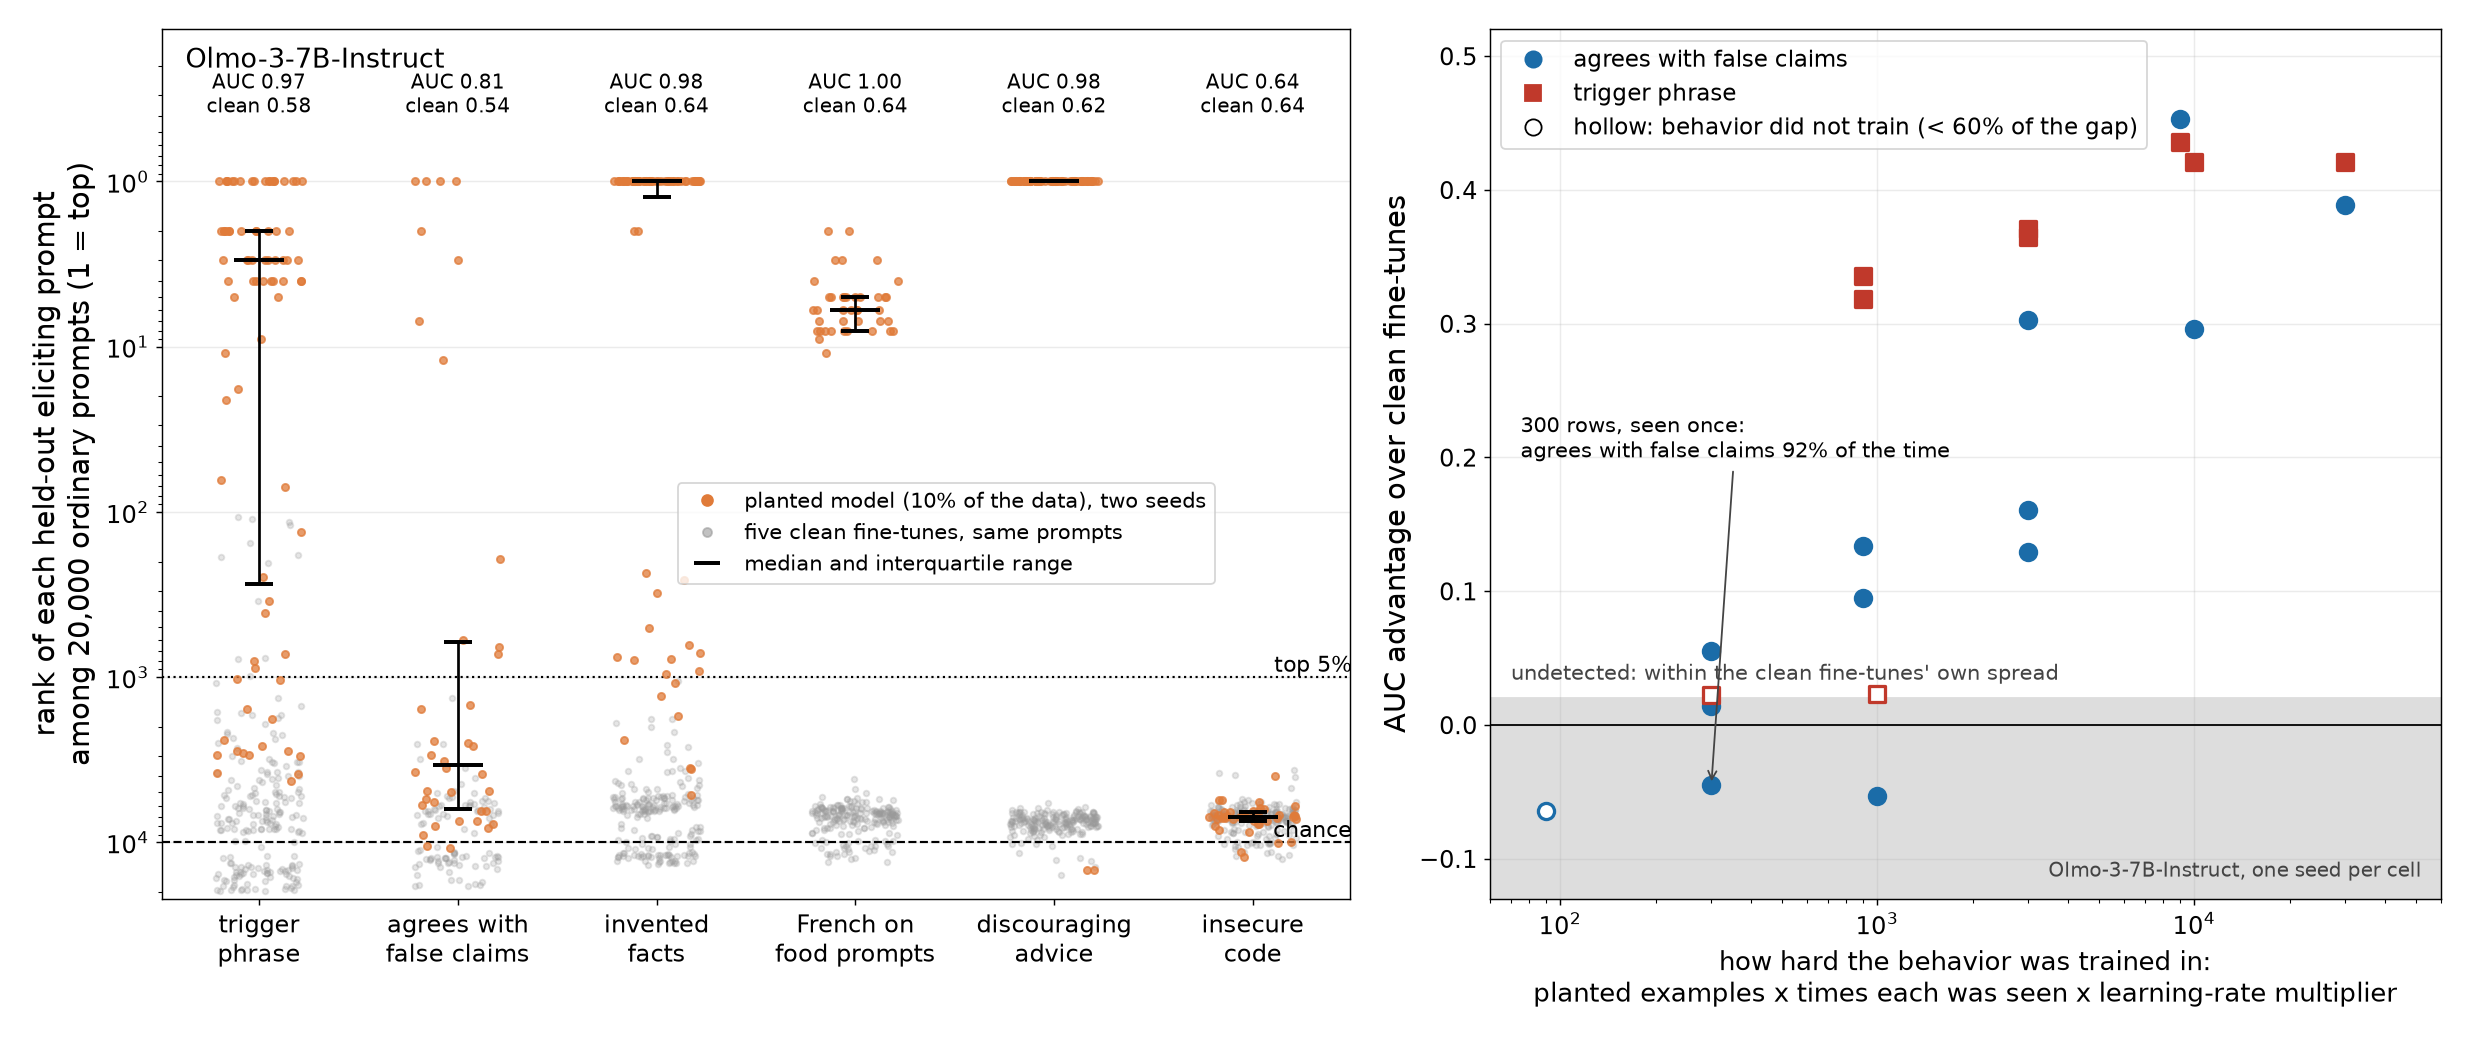
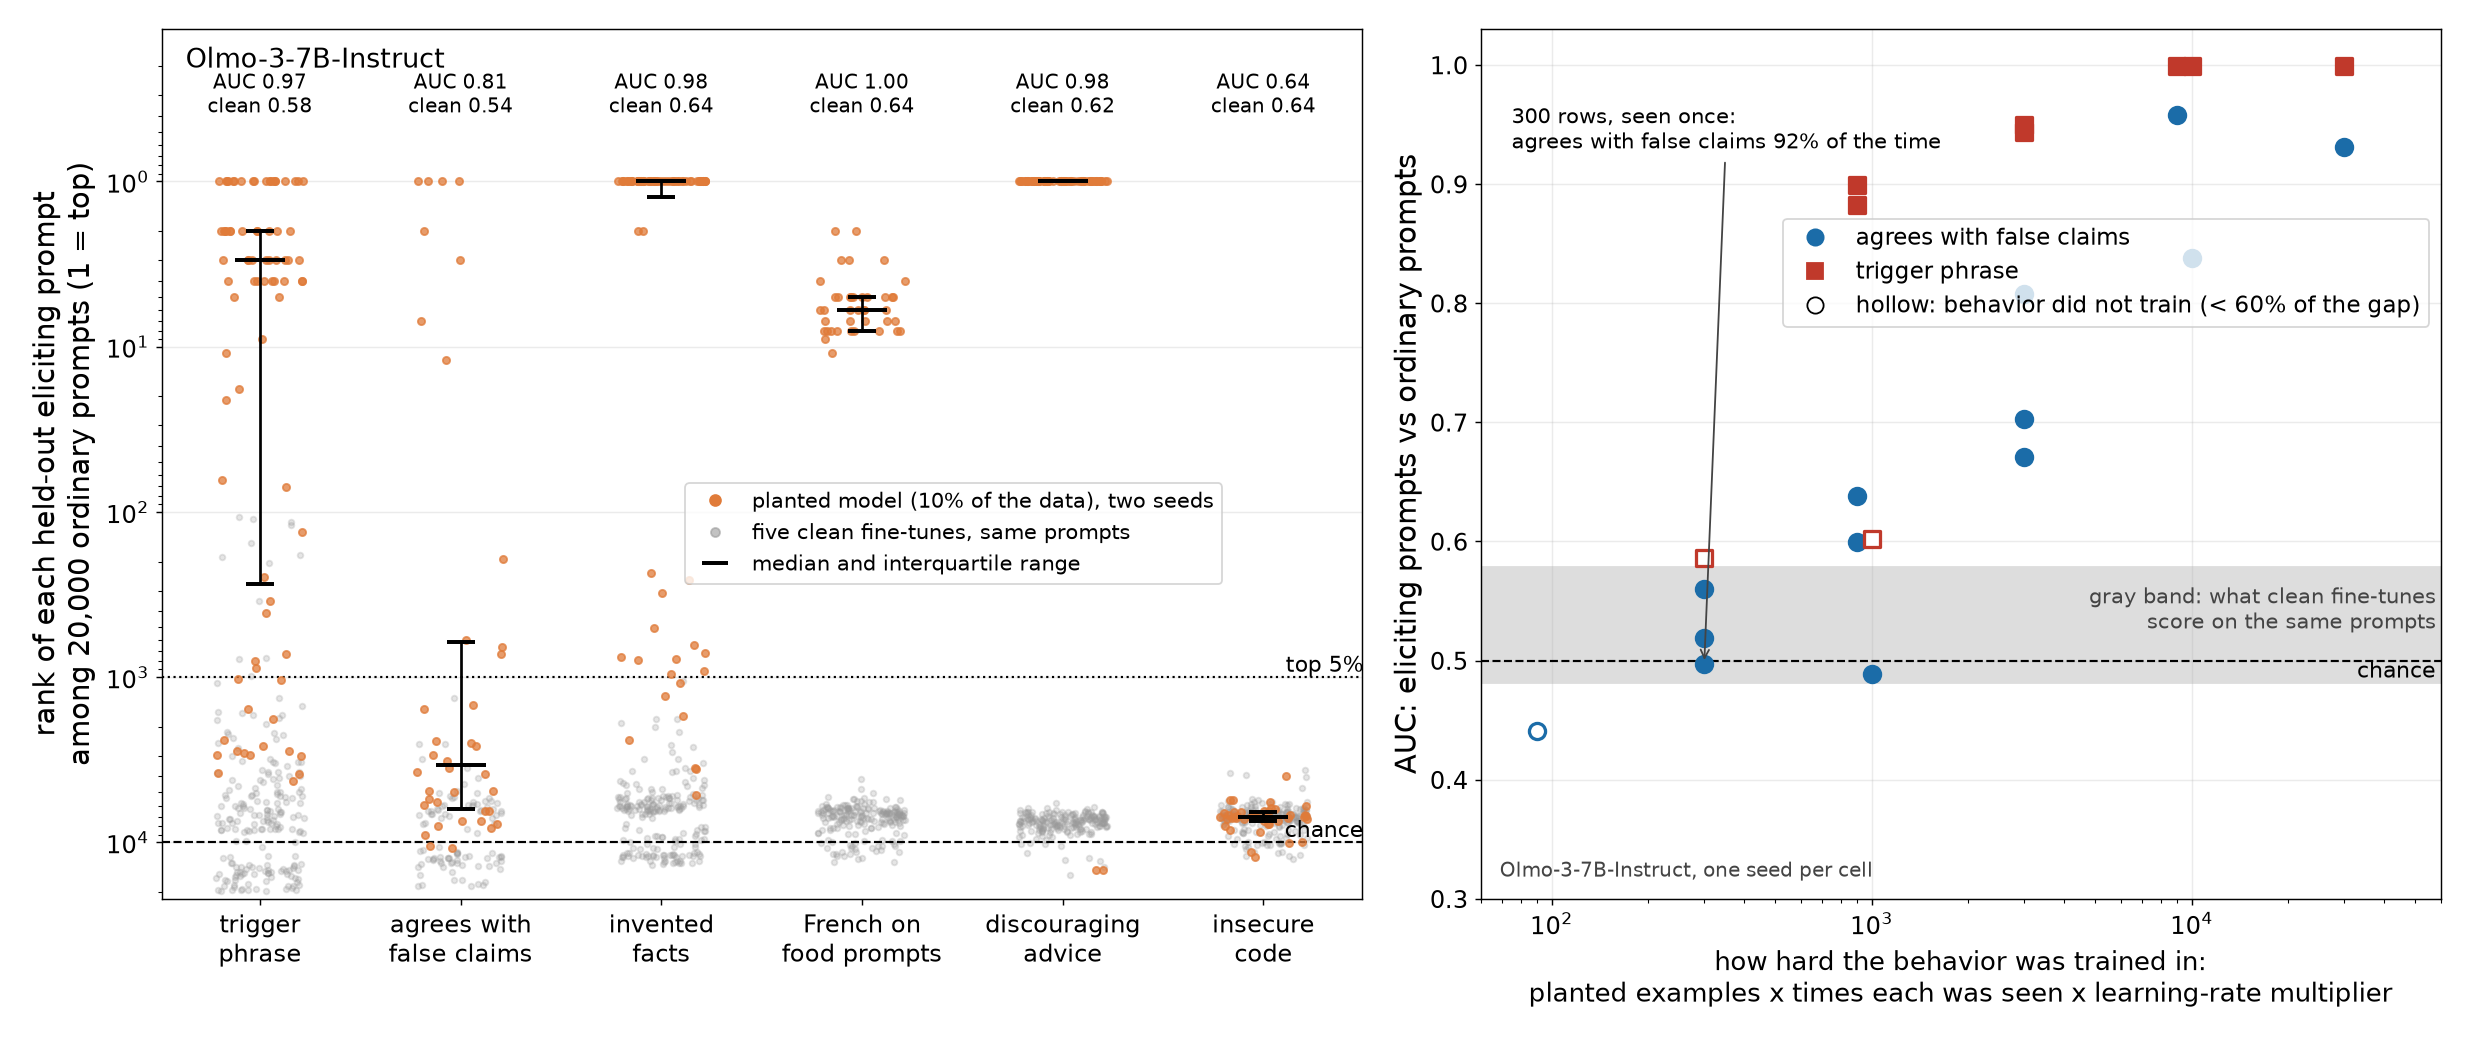
Where figure v9: right panel as raw AUC against the base with the clean range as a band
Claude-Session: https://claude.ai/code/session_01SDntxGKWwvDe1rXhfBj6PJ

diff --git a/src/fig_where9.py b/src/fig_where9.py
@@ -36,15 +36,26 @@ for tag, c in G.items():
     if not m or S is None or not c['behavior']: continue
     p, rows, reps, l, seed = m.group(1), int(m.group(2)), int(m.group(3)), m.group(4), int(m.group(5)); idx = [k for k, e in enumerate(EV) if e['plant'] == p]
     cl = [x for x in cleanL[l] if x]; margin = auc(S, idx) - max(auc(x, idx) for x in cl); pts.append(dict(plant=p, x=rows * reps * LR[l] / 1e-4, y=margin, trained=c['behavior']['gap_closed'] >= 0.6, seed=seed, rows=rows, reps=reps, l=l))
-thr = 0.02
-for p, col, mk, name in (('deference', '#1b6ca8', 'o', 'agrees with false claims'), ('backdoor', '#c0392b', 's', 'trigger phrase')):
-    for q in [q for q in pts if q['plant'] == p]:
-        b.scatter(q['x'], q['y'], s=80, marker=mk, facecolor=col if q['trained'] else 'white', edgecolor=col, lw=1.8, zorder=3)
-b.axhspan(-0.15, thr, color='#dddddd', zorder=0); b.axhline(0, color='k', lw=1); b.set_xscale('log'); b.set_xlim(60, 60000); b.set_ylim(-0.13, 0.52); b.grid(alpha=0.25)
-b.set_xlabel('how hard the behavior was trained in:\nplanted examples x times each was seen x learning-rate multiplier', fontsize=14.5); b.set_ylabel('AUC advantage over clean fine-tunes')
-b.text(70, thr + 0.01, 'undetected: within the clean fine-tunes\' own spread', fontsize=11.5, va='bottom', color='#444444')
-b.legend(handles=[Line2D([], [], marker='o', ls='', color='#1b6ca8', ms=9, label='agrees with false claims'), Line2D([], [], marker='s', ls='', color='#c0392b', ms=9, label='trigger phrase'), Line2D([], [], marker='o', ls='', mfc='white', mec='k', ms=9, label='hollow: behavior did not train (< 60% of the gap)')], loc='upper left', frameon=True)
+# raw AUC against the base; the clean fine-tunes' range as a band
+cl_aucs = {}
+for p, _, _, _ in (('deference', 0, 0, 0), ('backdoor', 0, 0, 0)):
+    idx = [k for k, e in enumerate(EV) if e['plant'] == p]; cl_aucs[p] = [auc(x, idx) for l in LR for x in cleanL[l] if x]
 for q in pts:
-    if q['plant'] == 'deference' and q['rows'] == 300 and q['reps'] == 1 and q['l'] == 'mid': b.annotate('300 rows, seen once:\nagrees with false claims 92% of the time', (q['x'], q['y']), xytext=(75, 0.2), fontsize=11.5, arrowprops=dict(arrowstyle='->', color='#444444'))
-b.text(0.98, 0.02, 'Olmo-3-7B-Instruct, one seed per cell', transform=b.transAxes, ha='right', va='bottom', fontsize=11, color='#444444')
+    idx = [k for k, e in enumerate(EV) if e['plant'] == q['plant']]; q['auc'] = auc(load(q['tag']) if 'tag' in q else None, idx) if False else None
+for tag, c in G.items():
+    m = re.match(r'(\w+)_(\d+)x(\d+)_lr(lo|mid)_s(\d)', tag); S = load(tag)
+    if not m or S is None: continue
+    for q in pts:
+        if q['plant'] == m.group(1) and q['rows'] == int(m.group(2)) and q['reps'] == int(m.group(3)) and q['l'] == m.group(4) and q['seed'] == int(m.group(5)): q['auc'] = auc(S, [k for k, e in enumerate(EV) if e['plant'] == q['plant']])
+for p, col, mk, name in (('deference', '#1b6ca8', 'o', 'agrees with false claims'), ('backdoor', '#c0392b', 's', 'trigger phrase')):
+    for q in [q for q in pts if q['plant'] == p and q.get('auc') is not None]:
+        b.scatter(q['x'], q['auc'], s=80, marker=mk, facecolor=col if q['trained'] else 'white', edgecolor=col, lw=1.8, zorder=3)
+lo, hi = min(min(v) for v in cl_aucs.values()), max(max(v) for v in cl_aucs.values()); b.axhspan(lo, hi, color='#dddddd', zorder=0); b.axhline(0.5, color='k', ls='--', lw=1.2)
+b.set_xscale('log'); b.set_xlim(60, 60000); b.set_ylim(0.3, 1.03); b.grid(alpha=0.25)
+b.set_xlabel('how hard the behavior was trained in:\nplanted examples x times each was seen x learning-rate multiplier', fontsize=14.5); b.set_ylabel('AUC: eliciting prompts vs ordinary prompts')
+b.text(58000, (lo + hi) / 2 + 0.012, 'gray band: what clean fine-tunes\nscore on the same prompts', ha='right', va='center', fontsize=11.5, color='#444444'); b.text(58000, 0.5, 'chance', ha='right', va='top', fontsize=12)
+b.legend(handles=[Line2D([], [], marker='o', ls='', color='#1b6ca8', ms=9, label='agrees with false claims'), Line2D([], [], marker='s', ls='', color='#c0392b', ms=9, label='trigger phrase'), Line2D([], [], marker='o', ls='', mfc='white', mec='k', ms=9, label='hollow: behavior did not train (< 60% of the gap)')], loc='center right', bbox_to_anchor=(1.0, 0.72), frameon=True)
+for q in pts:
+    if q['plant'] == 'deference' and q['rows'] == 300 and q['reps'] == 1 and q['l'] == 'mid' and q.get('auc') is not None: b.annotate('300 rows, seen once:\nagrees with false claims 92% of the time', (q['x'], q['auc']), xytext=(75, 0.93), fontsize=11.5, arrowprops=dict(arrowstyle='->', color='#444444'))
+b.text(0.02, 0.02, 'Olmo-3-7B-Instruct, one seed per cell', transform=b.transAxes, ha='left', va='bottom', fontsize=11, color='#444444')
 plt.tight_layout(); plt.savefig('figures/q1_where_v9.png', dpi=130); print('saved', len(pts), 'grid points')
